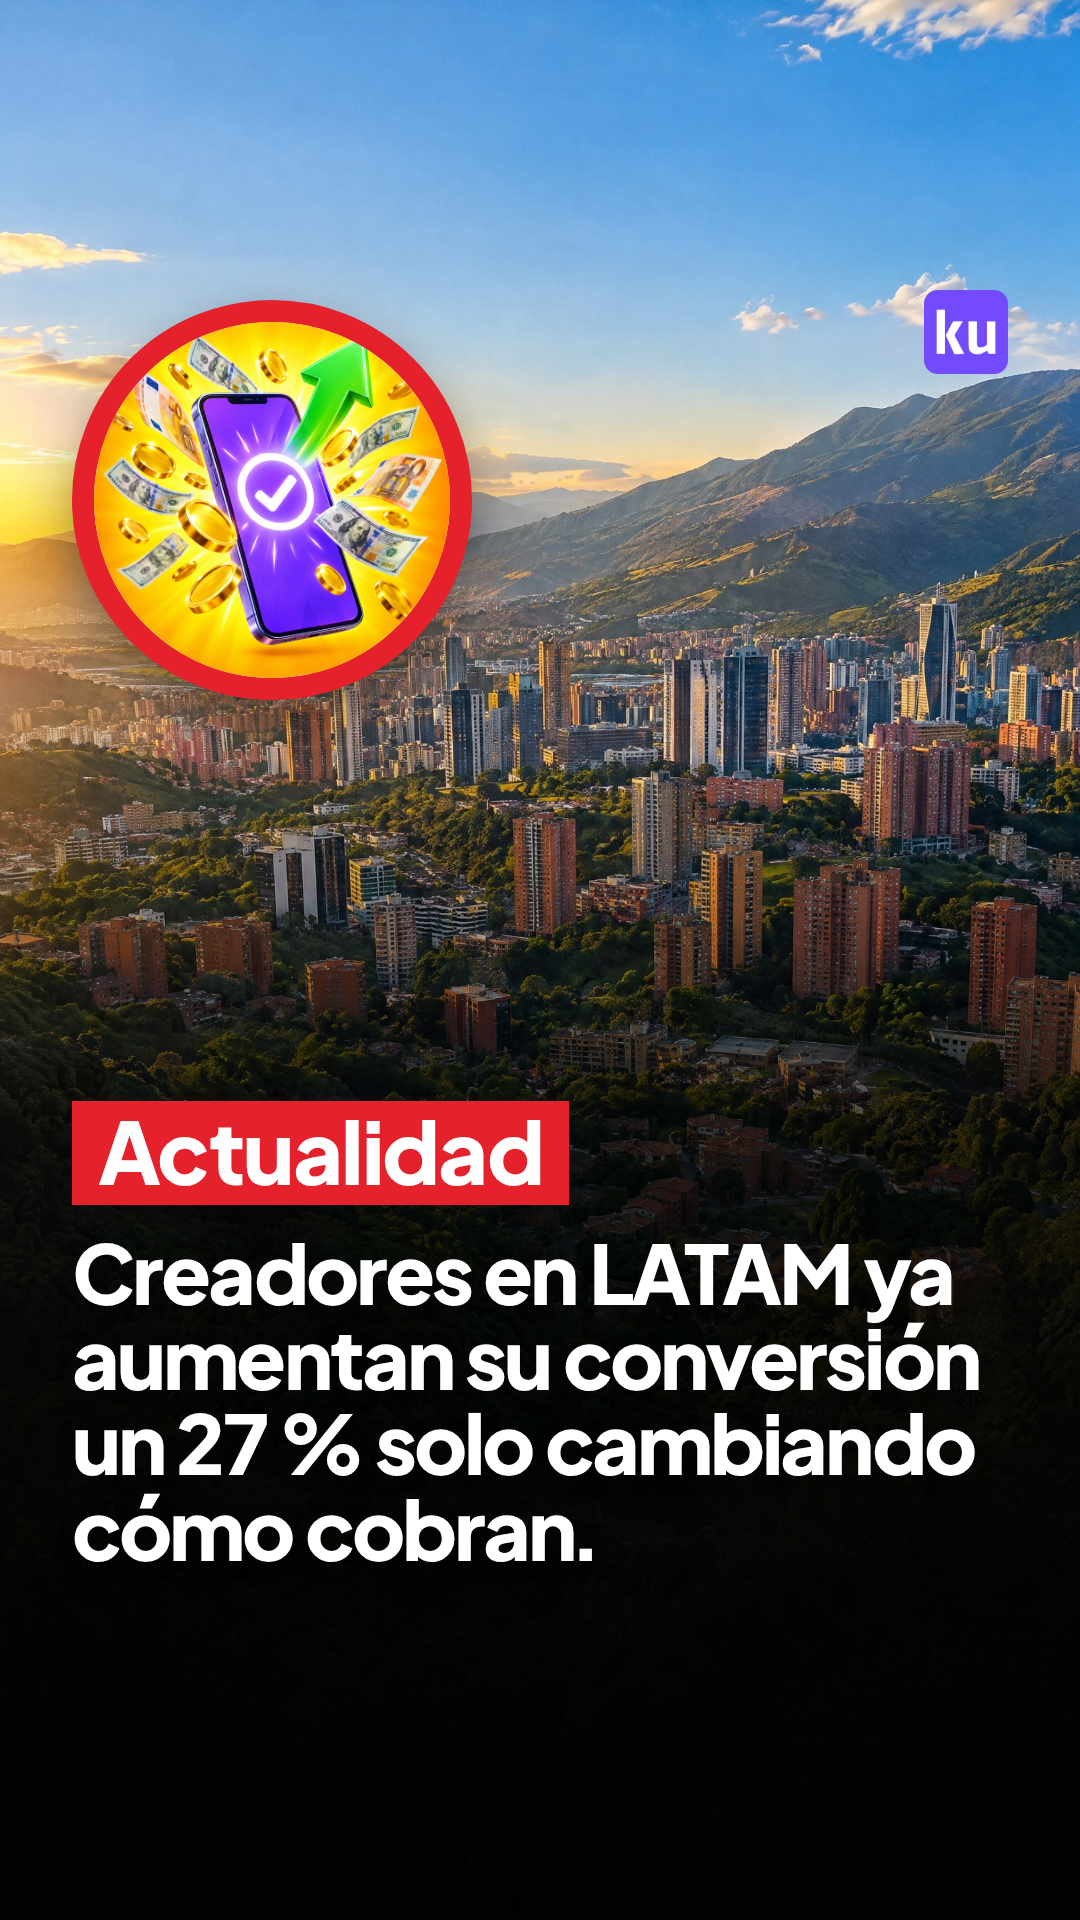
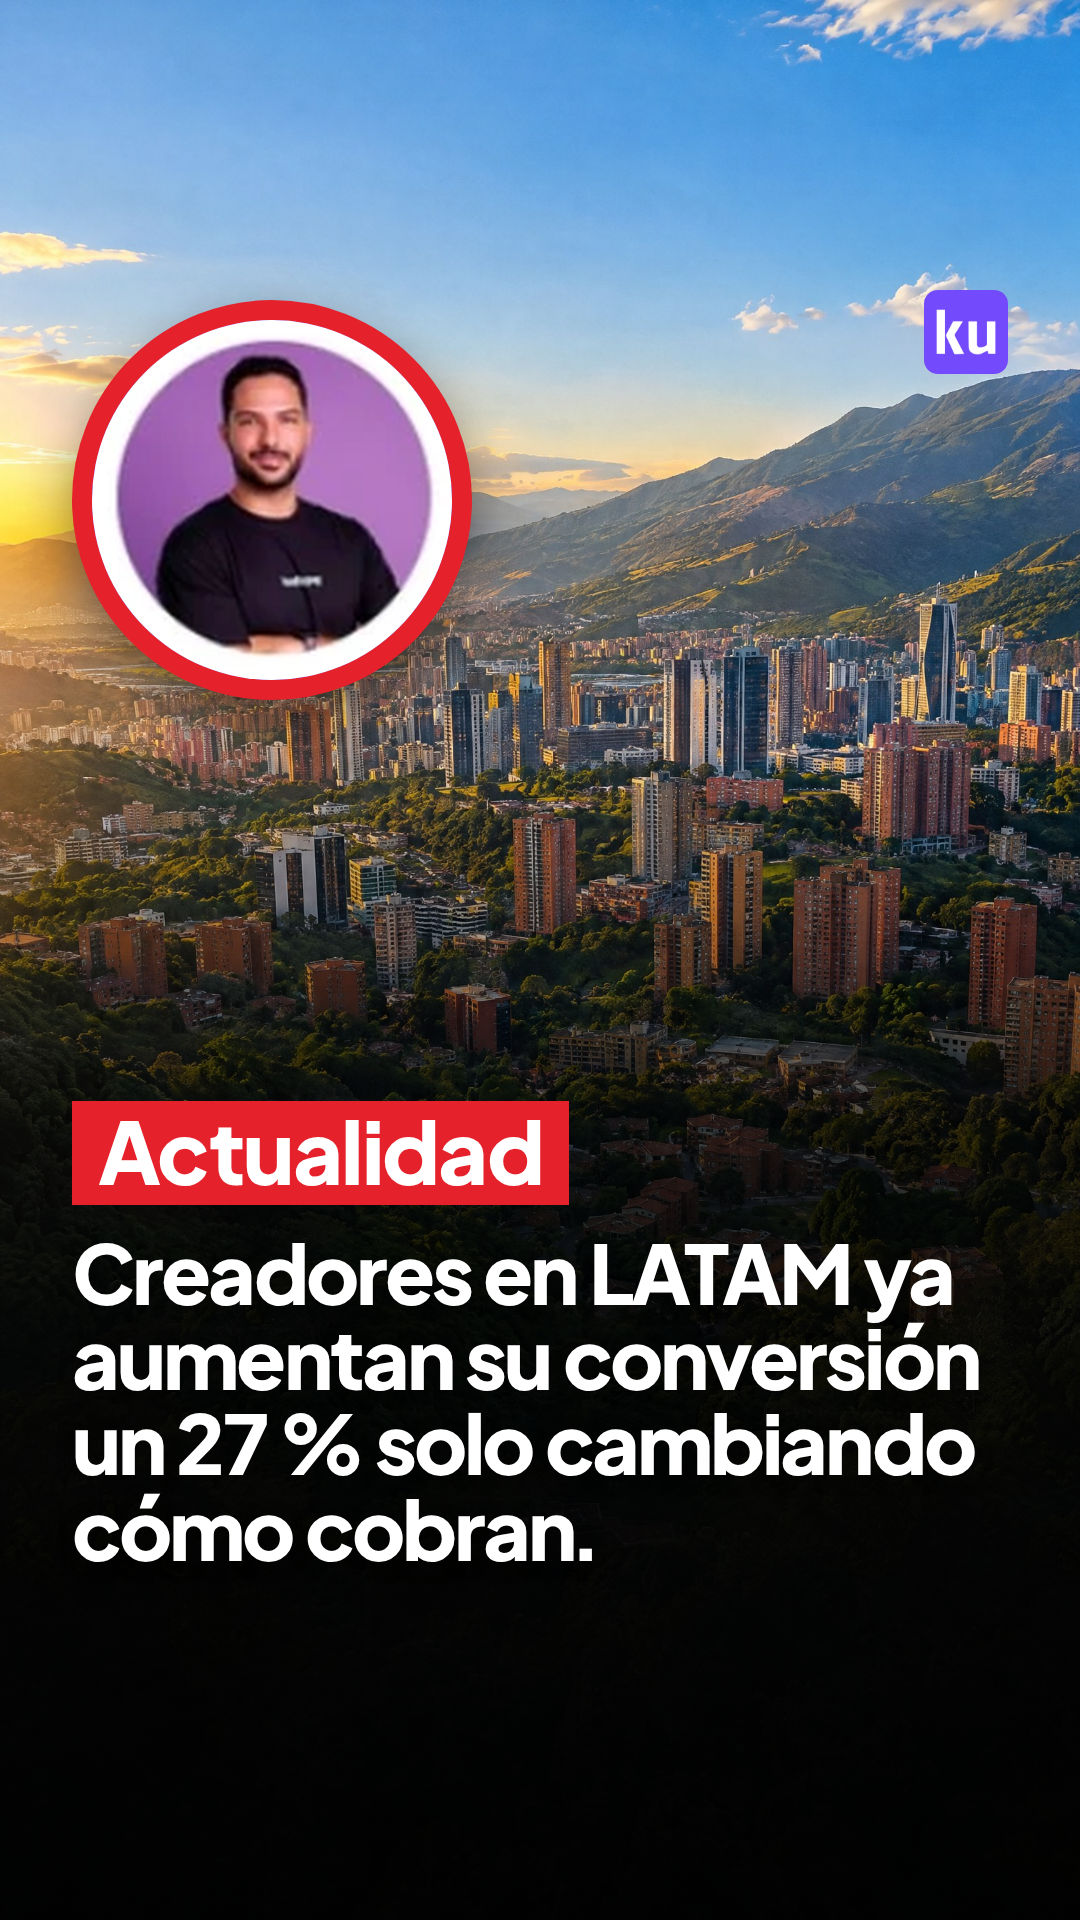
HUBS: noticia con foto de Rubén o Stripe y PayPal tachados, alternando por hub
Claude-Session: https://claude.ai/code/session_01CrG1buW4YQaBwXCV6dNp28

Changed region(s): [[0.0611, 0.1562, 0.4278, 0.375]]

diff --git a/creatividades/metodos-de-pago/hubs/HUBS-V2-BENEFICIOS.md b/creatividades/metodos-de-pago/hubs/HUBS-V2-BENEFICIOS.md
@@ -95,7 +95,7 @@
 - **Título:** Hasta un 30 % más, sin vender más
 
 ### E5 · Noticia
-- **Imagen:** foto de la ciudad en alta resolución, círculo con aro rojo con un móvil con el pago confirmado, billetes y una flecha verde hacia arriba (imagen generada), etiqueta roja «Actualidad» y titular «Creadores en LATAM ya aumentan su conversión un 27 % solo cambiando cómo cobran.»
+- **Imagen:** foto de la ciudad en alta resolución, círculo con aro rojo: foto de Rubén (LATAM y Bali) o Stripe y PayPal tachados (Miami y Dubái), etiqueta roja «Actualidad» y titular «Creadores en LATAM ya aumentan su conversión un 27 % solo cambiando cómo cobran.»
 - **Texto:**
   ```text
   Creadores en LATAM ya aumentan su conversión un 27 % solo cambiando cómo cobran.
@@ -186,7 +186,7 @@
 - **Título:** Hasta un 30 % más desde Miami
 
 ### E5 · Noticia
-- **Imagen:** foto de la ciudad en alta resolución, círculo con aro rojo con un móvil con el pago confirmado, billetes y una flecha verde hacia arriba (imagen generada), etiqueta roja «Actualidad» y titular «Creadores en Miami ya aumentan su conversión un 27 % solo cambiando cómo cobran.»
+- **Imagen:** foto de la ciudad en alta resolución, círculo con aro rojo: foto de Rubén (LATAM y Bali) o Stripe y PayPal tachados (Miami y Dubái), etiqueta roja «Actualidad» y titular «Creadores en Miami ya aumentan su conversión un 27 % solo cambiando cómo cobran.»
 - **Texto:**
   ```text
   Creadores en Miami ya aumentan su conversión un 27 % solo cambiando cómo cobran.
@@ -266,7 +266,7 @@
 - **Título:** Hasta un 30 % más desde Dubái
 
 ### E5 · Noticia
-- **Imagen:** foto de la ciudad en alta resolución, círculo con aro rojo con un móvil con el pago confirmado, billetes y una flecha verde hacia arriba (imagen generada), etiqueta roja «Actualidad» y titular «Creadores en Dubái ya aumentan su conversión un 27 % solo cambiando cómo cobran.»
+- **Imagen:** foto de la ciudad en alta resolución, círculo con aro rojo: foto de Rubén (LATAM y Bali) o Stripe y PayPal tachados (Miami y Dubái), etiqueta roja «Actualidad» y titular «Creadores en Dubái ya aumentan su conversión un 27 % solo cambiando cómo cobran.»
 - **Texto:**
   ```text
   Creadores en Dubái ya aumentan su conversión un 27 % solo cambiando cómo cobran.
@@ -356,7 +356,7 @@
 - **Título:** Hasta un 30 % más, mientras duermes
 
 ### E5 · Noticia
-- **Imagen:** foto de la ciudad en alta resolución, círculo con aro rojo con un móvil con el pago confirmado, billetes y una flecha verde hacia arriba (imagen generada), etiqueta roja «Actualidad» y titular «Creadores en Bali ya aumentan su conversión un 27 % solo cambiando cómo cobran.»
+- **Imagen:** foto de la ciudad en alta resolución, círculo con aro rojo: foto de Rubén (LATAM y Bali) o Stripe y PayPal tachados (Miami y Dubái), etiqueta roja «Actualidad» y titular «Creadores en Bali ya aumentan su conversión un 27 % solo cambiando cómo cobran.»
 - **Texto:**
   ```text
   Creadores en Bali ya aumentan su conversión un 27 % solo cambiando cómo cobran.
